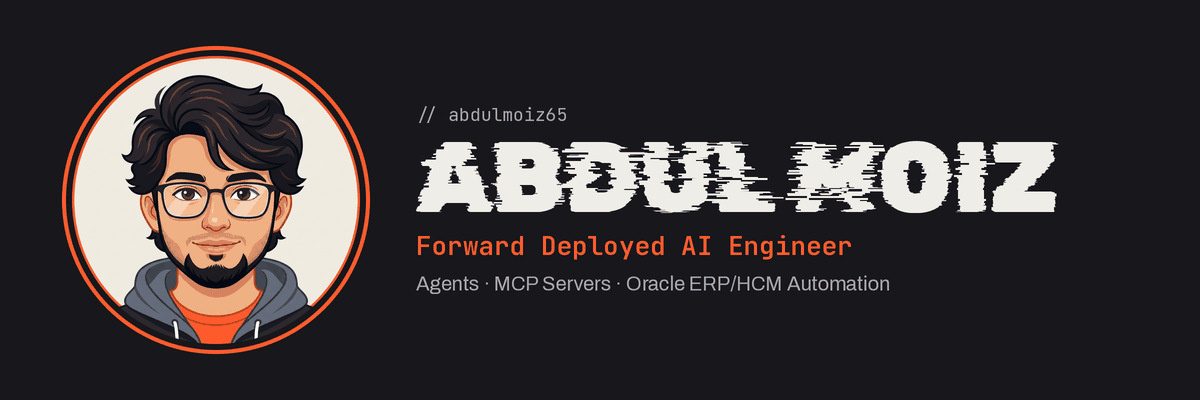
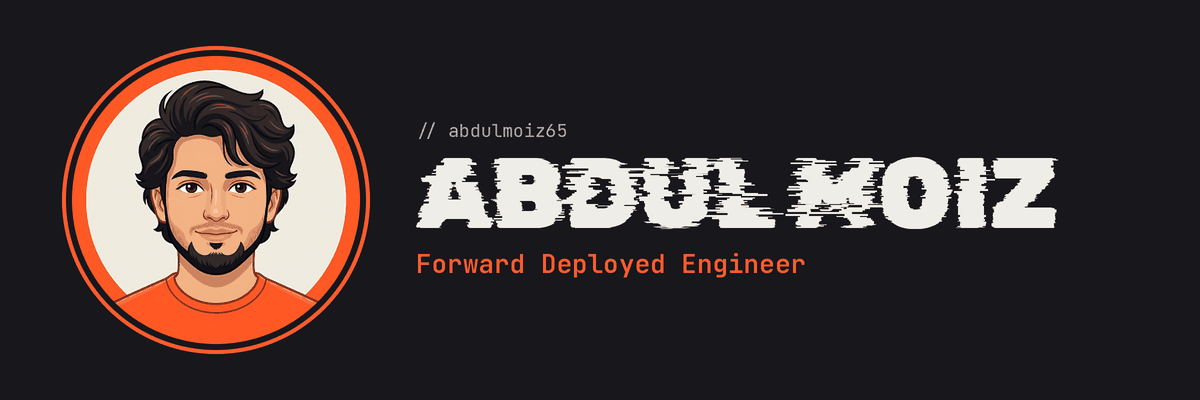
Release v0.4.1: updated author branding
New round avatar logo with a transparent background, brand orange
#FF5B2E, and the new name banner in the README.

Changed region(s): [[0.3392, 0.27, 0.8942, 0.75], [0.0617, 0.12, 0.3083, 0.87]]

diff --git a/ui/dashboard.css b/ui/dashboard.css
@@ -86,9 +86,9 @@ input[type="checkbox"] { width: 16px; height: 16px; margin: 0; accent-color: var
    makes the first card below start under the toolbar. */
 .masthead { display: flex; flex-direction: column; align-items: flex-start; gap: 8px; min-height: calc(var(--host-safe-top) - 20px); padding-right: var(--host-safe-right); margin-bottom: 16px; }
 .brand { display: flex; align-items: center; gap: 10px; flex-wrap: wrap; }
-.brand-logo { width: 32px; height: 32px; border-radius: 50%; box-shadow: 0 0 0 2px #ff5a1f; flex: none; }
+.brand-logo { width: 32px; height: 32px; flex: none; }
 .byline { font-size: 12px; color: var(--muted); text-decoration: none; }
-.byline:hover { color: #ff5a1f; }
+.byline:hover { color: #ff5b2e; }
 .connbar { display: flex; align-items: center; gap: 10px; flex-wrap: wrap; }
 button.compact { padding: 3px 10px; font-size: 12px; }
 .pill { display: inline-block; padding: 3px 10px; border-radius: 999px; font-size: 12px; font-weight: 600; background: var(--neutral-bg); color: var(--muted); }

diff --git a/e2e/cmd/verify/api_test.go b/e2e/cmd/verify/api_test.go
@@ -85,7 +85,7 @@ func newFixture(scenarios []scenario, noExport bool) *fixture {
 	}
 	n := len(scenarios)
 	f.summary = map[string]any{
-		"version": "0.4.0", "window_seconds": 3600, "requests": n, "errors": errs, "error_rate": float64(errs) / float64(n),
+		"version": "0.4.1", "window_seconds": 3600, "requests": n, "errors": errs, "error_rate": float64(errs) / float64(n),
 		"avg_latency_ms": 5.5, "p95_latency_ms": 9.0, "input_tokens": in, "output_tokens": out, "retried_requests": retried,
 		"total_input_tokens": in, "cache_read_tokens": read, "cache_hit_rate": expectedHitRate,
 		"providers":      []string{providerBroken, providerOK},

diff --git a/dispatch_test.go b/dispatch_test.go
@@ -131,7 +131,7 @@ func TestDispatchHostShapedPayloads(t *testing.T) {
 	if err := json.Unmarshal(env, &reg); err != nil || !reg.OK {
 		t.Fatalf("envelope: %s", env)
 	}
-	if reg.Result.SchemaVersion != 10 || reg.Result.Metadata.Name != "LLM Tracing" || reg.Result.Metadata.Version != "0.4.0" ||
+	if reg.Result.SchemaVersion != 10 || reg.Result.Metadata.Name != "LLM Tracing" || reg.Result.Metadata.Version != "0.4.1" ||
 		reg.Result.Metadata.Author != pluginAuthor || reg.Result.Metadata.GitHubRepository == "" {
 		t.Fatalf("registration: %+v", reg.Result)
 	}

diff --git a/store_test.go b/store_test.go
@@ -157,7 +157,7 @@ func TestUIWorksWithoutEndpoint(t *testing.T) {
 		t.Fatalf("exporter must stay off: n=%d err=%v", n, err)
 	}
 	s := p.tracer.summary()
-	if s.StoredTraces != 1 || s.Requests != 1 || s.RetriedRequests != 1 || s.Exporter.Enabled || s.Exporter.EndpointHost != "" || s.Version != "0.4.0" {
+	if s.StoredTraces != 1 || s.Requests != 1 || s.RetriedRequests != 1 || s.Exporter.Enabled || s.Exporter.EndpointHost != "" || s.Version != "0.4.1" {
 		t.Fatalf("summary wrong: %+v", s)
 	}
 }

diff --git a/main.go b/main.go
@@ -17,7 +17,7 @@ import (
 const (
 	pluginID      = "llm-tracing"
 	pluginName    = "LLM Tracing"
-	pluginVersion = "0.4.0"
+	pluginVersion = "0.4.1"
 	pluginAuthor  = "abdulmoiz65"
 	pluginRepo    = "https://github.com/abdulmoiz65/LLM-Tracing-Plugin"
 	// pluginLogo is shown by the Management Center's Plugins page and the

diff --git a/e2e/cmd/verify/api.go b/e2e/cmd/verify/api.go
@@ -21,7 +21,7 @@ import (
 const (
 	apiPrefix          = "/v0/management/plugins/llm-tracing"
 	apiResourcePrefix  = "/v0/resource/plugins/llm-tracing"
-	apiExpectedVersion = "0.4.0"
+	apiExpectedVersion = "0.4.1"
 	apiWindowSeconds   = 3600
 	apiClientKeyPrefix = "sha256:"
 	apiTraceNotFound   = "trace not found"

diff --git a/README.md b/README.md
@@ -1,4 +1,4 @@
-<p align="center"><img src="assets/banner.png" alt="Abdul Moiz, Forward Deployed AI Engineer" width="720"></p>
+<p align="center"><img src="assets/banner.png" alt="Abdul Moiz, Forward Deployed Engineer" width="720"></p>
 
 # llm-tracing
 

diff --git a/CHANGELOG.md b/CHANGELOG.md
@@ -1,5 +1,11 @@
 # Changelog
 
+## 0.4.1
+
+### Changed
+
+- Updated author branding: new avatar logo (round, transparent background), brand orange #FF5B2E, and the new name banner in the README.
+
 ## 0.4.0
 
 ### Added
